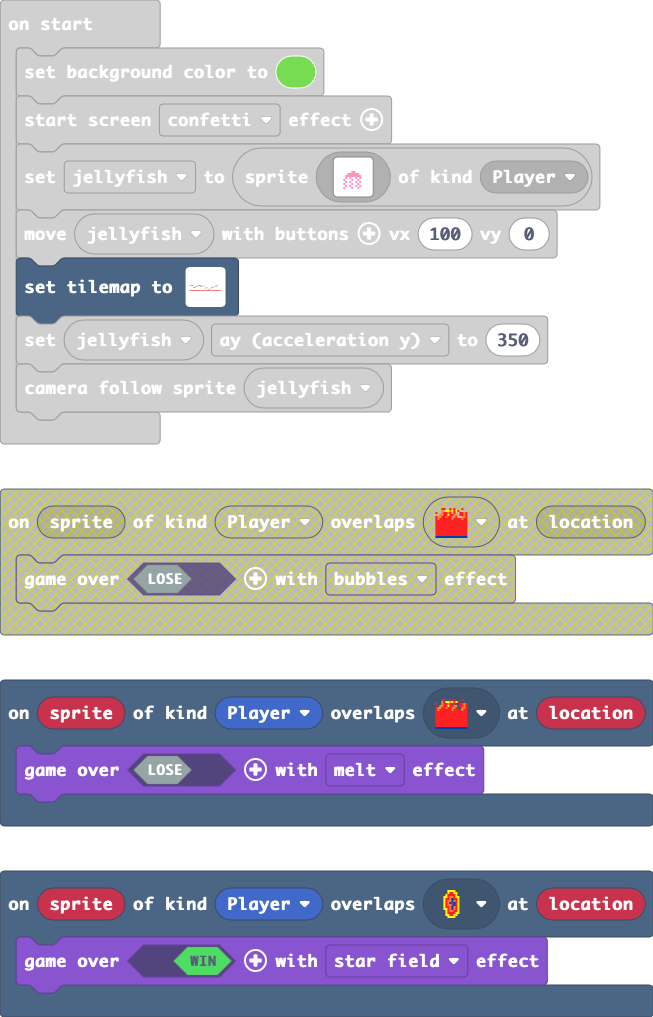
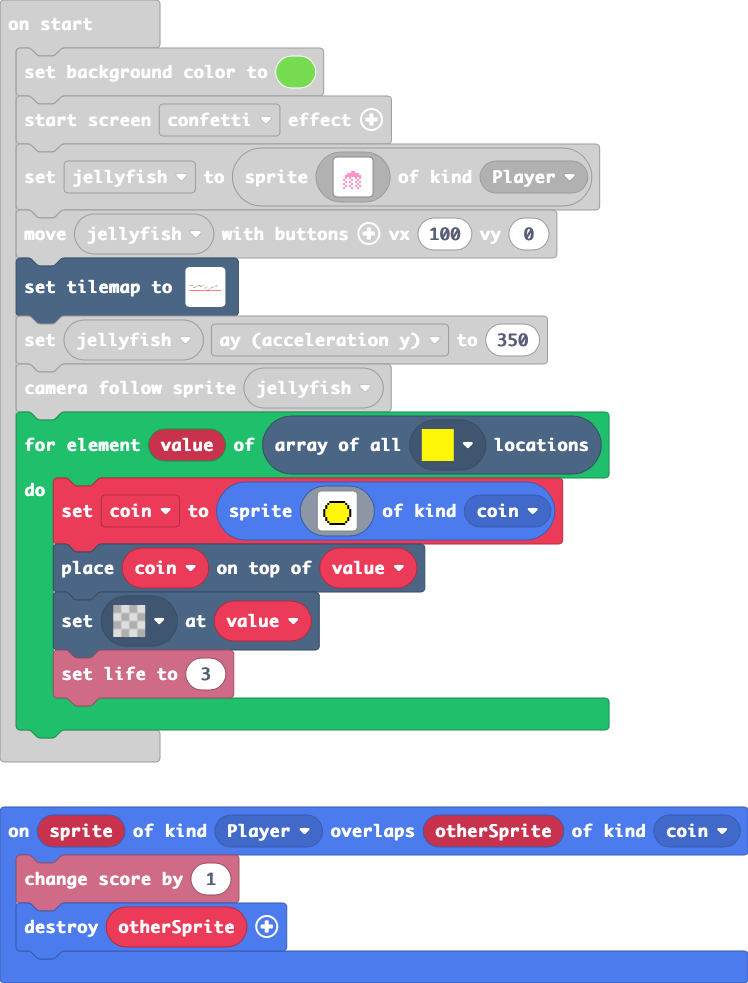
lives

diff --git a/main.ts b/main.ts
@@ -1,3 +1,6 @@
+namespace SpriteKind {
+    export const coin = SpriteKind.create()
+}
 scene.onOverlapTile(SpriteKind.Player, myTiles.tile2, function (sprite, location) {
     game.over(true, effects.starField)
 })
@@ -6,9 +9,14 @@ controller.A.onEvent(ControllerButtonEvent.Pressed, function () {
         jellyfish.vy = -175
     }
 })
+sprites.onOverlap(SpriteKind.Player, SpriteKind.coin, function (sprite, otherSprite) {
+    info.changeScoreBy(1)
+    otherSprite.destroy()
+})
 scene.onOverlapTile(SpriteKind.Player, myTiles.tile1, function (sprite, location) {
     game.over(false, effects.melt)
 })
+let coin: Sprite = null
 let jellyfish: Sprite = null
 scene.setBackgroundColor(7)
 effects.confetti.startScreenEffect()
@@ -31,7 +39,7 @@ jellyfish = sprites.create(img`
     . . . . . . . . . . . . . . . . 
     `, SpriteKind.Player)
 controller.moveSprite(jellyfish, 100, 0)
-tiles.setTilemap(tiles.createTilemap(hex`5000140000000000000000000000000000000000000000000000000000000000000000000000000000000000000000000000000000000000000000000000000000000000000000000000000000000000000000000000000000000000000000000000000000000000000000000000000000000000000000000000000000000000000000000000000000000000000000000000000000000000000000000000000000000000000000000000000000000000000000000000000000000000000000000000000000000000000000000000000000000000000000000000000000000000000000000000000000000000000000000000000000000000000000000000000000000000000000000000000000000000000000000000000000000000000000000000000000000000000000000000000000000000000000000000000000000000000000000000000000000000000000000000000000000000000000000000000000000000000000000000000000000000000000000000000000000000000000000000000000000000000000000000000000000000010101010101010101000000000000000000000000000000000000000000000000000101010000000000000000000000000000000000000000000000000000000000000000000000000000000000000000000000000000000000000000000000000000000000010001000100000000000000000000000000000000000000000000000000000000000000000000000000000000000003000000000000000000000000000000000000000000000000000000000001010000000000000000000001010000000000000000000000000000000000000000000000000000000000000001010101010100000000000000000000000000000000000000000000000000000001000000000000000000010101000000000000000000000000000000000000000000000000000000000000000001000000000000000000000000000000000000000000000000000000000000000001010000000000000000000000000000000000000000000000000000000000000000000000000000000000000001000000000000000000000000000000000000000000000000000000000000000001000000000000000000000000000000000000000000000000000000000001000000000000000000000000000001000000000000000000000000000000000000000000000000000000000000000101010000000000000000000000000000000000000000000000000000000000000000000000000000000000000001000000000000000000000000000000000000000000000000000000000000000000000000000000000000000000000000000000000000000000000000000101010100000000000000000000000001000000000000000000000000000000000000000000000000000000000000000000000000000000000000000000000000000000000000000000000000000000000000000000000000000000000001000000000000000000000000000000000000000000000000000000000000000000000000000000000000000000000000000000000000000000000000000000000000000000000000000000000001000000000000000000000000000000000000000000000000000000000000000000000000000000000000000000000000000000000000000000000000000000000000000000000000000000010101000000000000000000000000000000000000000000000000000000000000000000000000000000000000000000000000000000000000000000000000000000000000000000000000000000000000000000000000000000000000000000000000000000000000000000000000000000000000000000000000000000000000000000000000000000000000000000000000000000000000000000000000000000000000000000000000000000000000000000000000000000000000000000000000000000000000000000000000000000000000000000000000000000000000000000000000000000000000000000000000000000000000000000000000000000000000000000000000000000000000000202020202020202020202020202020202020202020202020202020202020202020202020202020202020202020202020202020202020202020202020202020202020202020202020202020202020202`, img`
+tiles.setTilemap(tiles.createTilemap(hex`5000140000000000000000000000000000000000000000000000000000000000000000000000000000000000000000000000000000000000000000000000000000000000000000000000000000000000000000000000000000000000000000000000000000000000000000000000000000000000000000000000000000000000000000000000000000000000000000000000000000000000000000000000000000000000000000000000000000000000000000000000000000000000000000000000000000000000000000000000000000000000000000000000000000000000000000000000000000000000000000000000000000000000000000000000000000000000000000000000000000000000000000000000000000000000000000000000000000000000000000000000000000000000000000000000000000000000000000000000000000000000040000000000000000000000000000000000000000000000000000040000000000000000000000000000000000000000000000000000000000000000000000000000000000000000010101010101010101000000000000000000000000000000040000000000000000000101010000000000000000000000000000000000000000000000000000000000000000000000000000000000000000000000000000000000000000000000000000000000010001000100000000000000000000000000000000000000000000000000000000000000000000000000000000000003000000000000000000000000000000000000000000000000000000000001010000000000000000000001010000000000000000000000000000000000000000000000000000000000000001010101010100000000000000000000000000000000000000000000000000000001000000000000000000010101000000000000000000000000000000000000000000000000000000000000000001000000000000000000000000000000000000000000000000000000000000040001010000000000000000000000000000000000000000000000000000040000000000000000000000000000000001000000000000000000000000000000000000000000000000000000000000000001000000000000000000000000000000000000000000000000000000000001000000000000000000000000040001000000000000000000000000000000000000000000000000000000000000000101010000000000000000000000000000000000000000000000000000000000000000000000000000000000000001000000000000000000000000000000000000000000000000000000000000000000000000000000000000000000000000000000000000000000000000000101010100000000000000000000000001000000000000000000000000000000000000000000000000000000000000000000000000000000000000000000000000000000000000000000000000000000000000000000000000000000000001000000000000000000000000000000000000000000000000000000000000000000000000000000000000000000000000000000000000000000000000000000000000000000000000000000000001000000000000000000000000000000000000000000000000000000000000000000000000000000000000000000000000000000000000000000000000000000000000000000000000000000010101000000000000000000000000000000000000000000000000000000000000000000000000000000000000000000000000000000000000000000000000000000000000000000000000000000000000000000000000000000000000000000000000000000000000000000000000000000000000000000000000000000000000000000000000000000000000000000000000000000000000000000000000000000000000000000000000000000000000000000000000000000000000000000000000000000000000000000000000000000000000000000000000000000000000000000000000000000000000000000000000000000000000000000000000000000000000000000000000000000000000000202020202020202020202020202020202020202020202020202020202020202020202020202020202020202020202020202020202020202020202020202020202020202020202020202020202020202`, img`
     ................................................................................
     ................................................................................
     ................................................................................
@@ -52,6 +60,29 @@ tiles.setTilemap(tiles.createTilemap(hex`500014000000000000000000000000000000000
     ................................................................................
     ................................................................................
     22222222222222222222222222222222222222222222222222222222222222222222222222222222
-    `, [myTiles.transparency16,sprites.castle.rock2,myTiles.tile1,myTiles.tile2], TileScale.Sixteen))
+    `, [myTiles.transparency16,sprites.castle.rock2,myTiles.tile1,myTiles.tile2,myTiles.tile3], TileScale.Sixteen))
 jellyfish.ay = 350
 scene.cameraFollowSprite(jellyfish)
+for (let value of tiles.getTilesByType(myTiles.tile3)) {
+    coin = sprites.create(img`
+        . . . . . . . . . . . . . . . . 
+        . . . . . . . . . . . . . . . . 
+        . . . . . . . . . . . . . . . . 
+        . . . . f f f f f f f f . . . . 
+        . . . f 5 5 5 5 5 5 5 5 f . . . 
+        . . f 5 5 5 5 5 5 5 5 5 5 f . . 
+        . . f 5 5 5 5 5 5 5 5 5 5 f . . 
+        . f 5 5 5 5 5 5 5 5 5 5 5 5 f . 
+        . f 5 5 5 5 5 5 5 5 5 5 5 5 f . 
+        . f 5 5 5 5 5 5 5 5 5 5 5 5 f . 
+        . f 5 5 5 5 5 5 5 5 5 5 5 5 f . 
+        . . f 5 5 5 5 5 5 5 5 5 5 f . . 
+        . . f 5 5 5 5 5 5 5 5 5 5 f . . 
+        . . . f 5 5 5 5 5 5 5 5 f . . . 
+        . . . . f f f f f f f f . . . . 
+        . . . . . . . . . . . . . . . . 
+        `, SpriteKind.coin)
+    tiles.placeOnTile(coin, value)
+    tiles.setTileAt(value, myTiles.transparency16)
+    info.setLife(3)
+}

diff --git a/tilemap.g.ts b/tilemap.g.ts
@@ -6,6 +6,8 @@ namespace myTiles {
     export const tile1 = image.ofBuffer(hex``);
     //% fixedInstance jres blockIdentity=images._tile
     export const tile2 = image.ofBuffer(hex``);
+    //% fixedInstance jres blockIdentity=images._tile
+    export const tile3 = image.ofBuffer(hex``);
 
 }
 // Auto-generated code. Do not edit.
